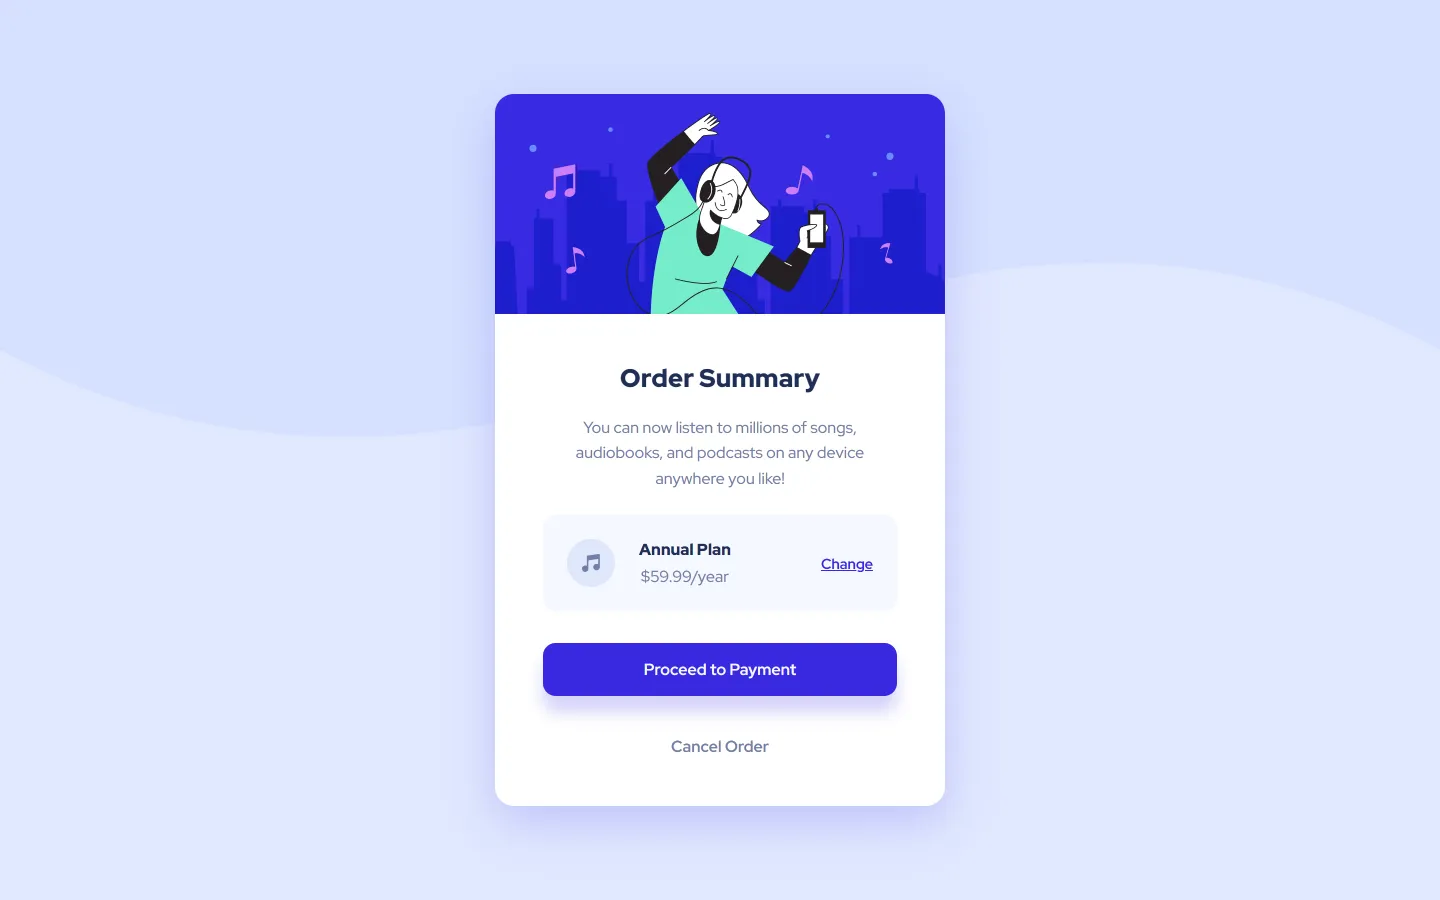
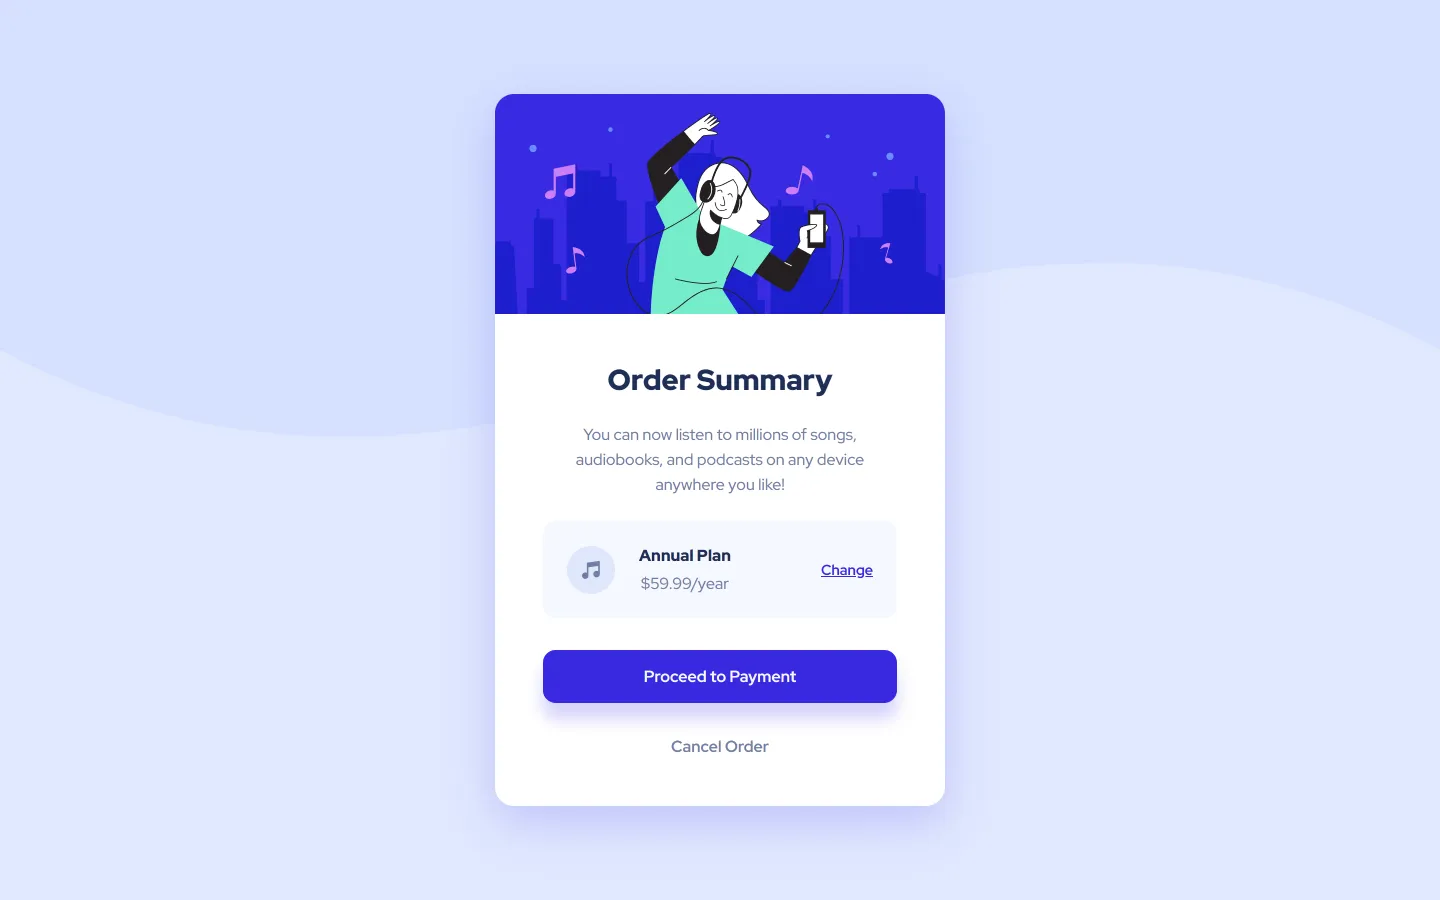
fix: better header size and payment button margin

diff --git a/style.css b/style.css
@@ -85,7 +85,7 @@ h2 {
 
     --font-n: clamp(0.9rem, 0.8rem + 0.5vw, 1rem);
     --font-s: calc(var(--font-n) * 0.9);
-    --font-l: calc(var(--font-n) * 1.6);
+    --font-l: calc(var(--font-n) * 1.8);
 }
 
 
@@ -185,12 +185,16 @@ h2 {
 .order-card__payment-button {
     width: 100%;
     padding: 1em 0;
-    margin-bottom: min(7vw, 2.4em);
+    --payment-button-margin-size: min(7vw, 2em);
+    margin-bottom: var(--payment-button-margin-size);
 
     background-color: var(--color-blue-700);
     color: var(--color-blue-50);
     border-radius: var(--plan-buttons-corners);
-    box-shadow: 0 1em 1em var(--color-blue-700-transparent);
+    box-shadow: 0
+                calc(var(--payment-button-margin-size) / 2)
+                calc(var(--payment-button-margin-size) / 2)
+                var(--color-blue-700-transparent);
 
     &:hover {
         background-color: var(--color-blue-400);
